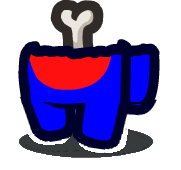
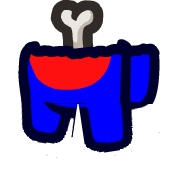
fix: Leichen-Kostuem ohne Bodenschatten und mit vorwaerts laufendem Schritt; version 0.1.0.5
Rueckmeldung zu 0.1.0.4 ("hintergrund ist noch doof", "man laeuft rueckwaerts"):
- Das Leichen-Sprite (aus dem Spiel gerendert) trug den dunklen Bodenschatten der echten
  Leiche mit. Das Kostuem sitzt aber auf dem normalen Spielerschatten, der Schatten lag
  doppelt und als dunkle Ellipse auf dem Boden. Die graue Schattenflaeche samt direkt
  anliegender schwarzer Randpixel ist aus hw_corpse.png entfernt (1872 Pixel), die zwoelf
  Laufbilder sind daraus neu erzeugt.
- Die Beinstummel schwangen gegenphasig zur Laufrichtung. Das Vorzeichen des Schwungs ist
  gedreht (vorderes Bein hebt sich beim Aufsetzen nach vorn), Hop und Lift entsprechend.

Bekannte Testpunkte:
- Schrittrichtung im Spiel in Bewegung beurteilen (Standbilder lassen die Richtung nicht
  erkennen); falls sie noch verkehrt ist, genuegt ein Vorzeichen in corpse_walk.py.

Changed region(s): [[0.0829, 0.5588, 0.884, 0.9412]]

diff --git a/HalloweenPlugin.cs b/HalloweenPlugin.cs
@@ -37,7 +37,7 @@ public class HalloweenPlugin : BasePlugin
 {
     public const string PluginGuid = "com.daunknown.unknownshalloween";
     public const string PluginName = "Unknown's Halloween";
-    public const string PluginVersion = "0.1.0.4";
+    public const string PluginVersion = "0.1.0.5";
     public static readonly System.Version Version = System.Version.Parse(PluginVersion);
 
     public static ManualLogSource Logger { get; private set; }
